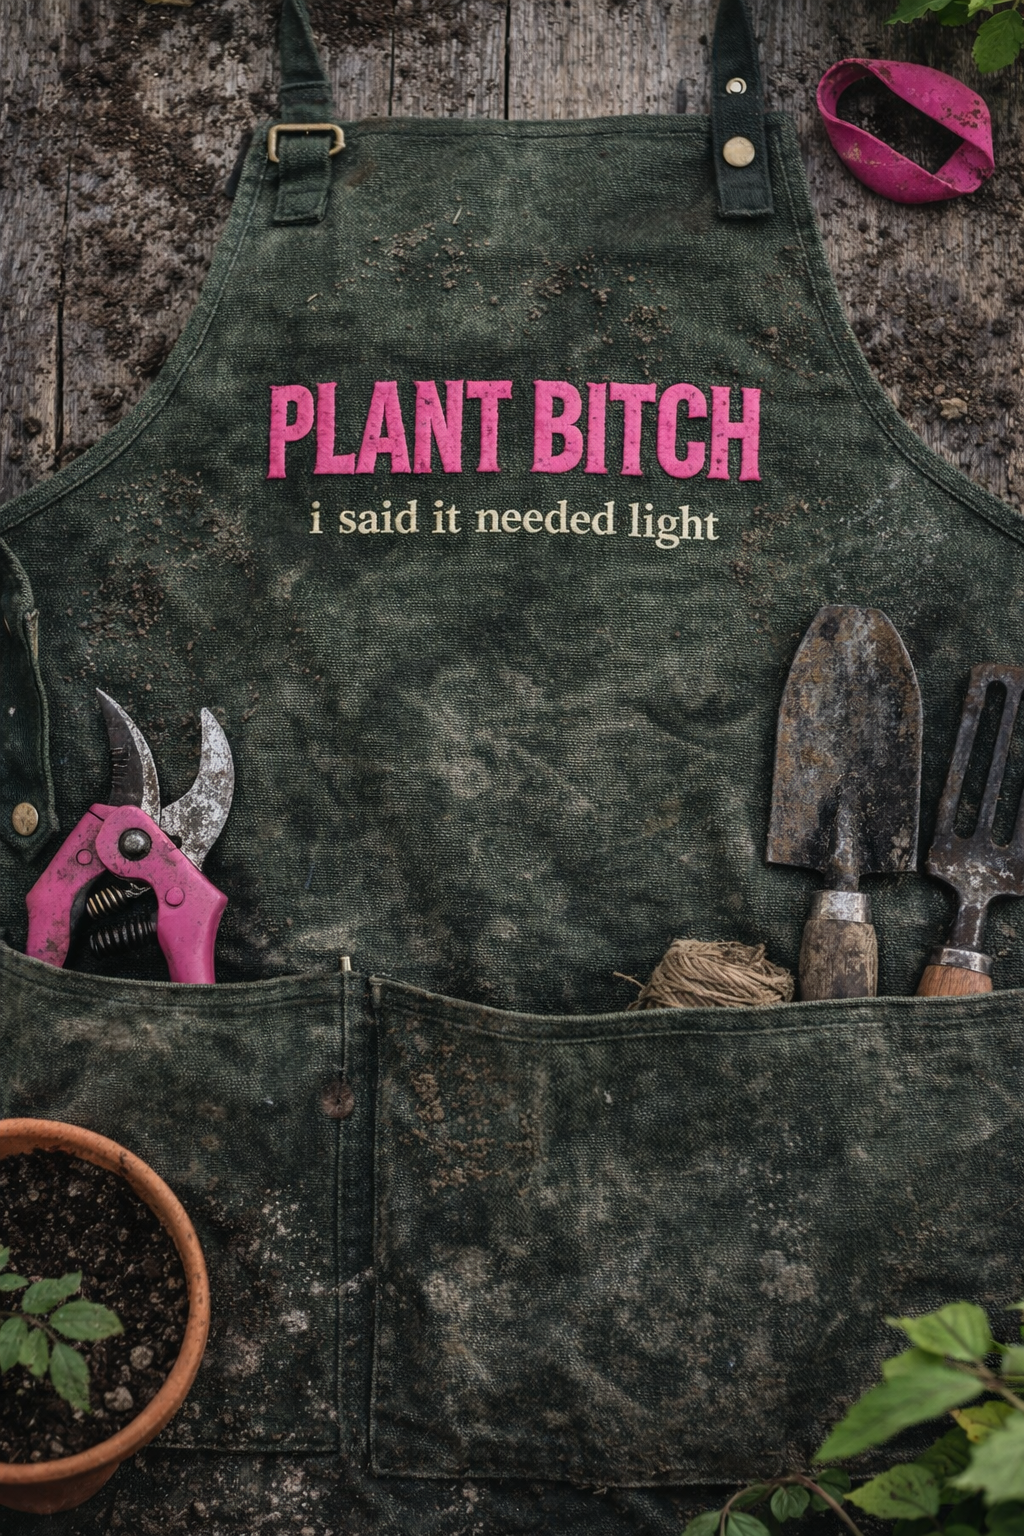
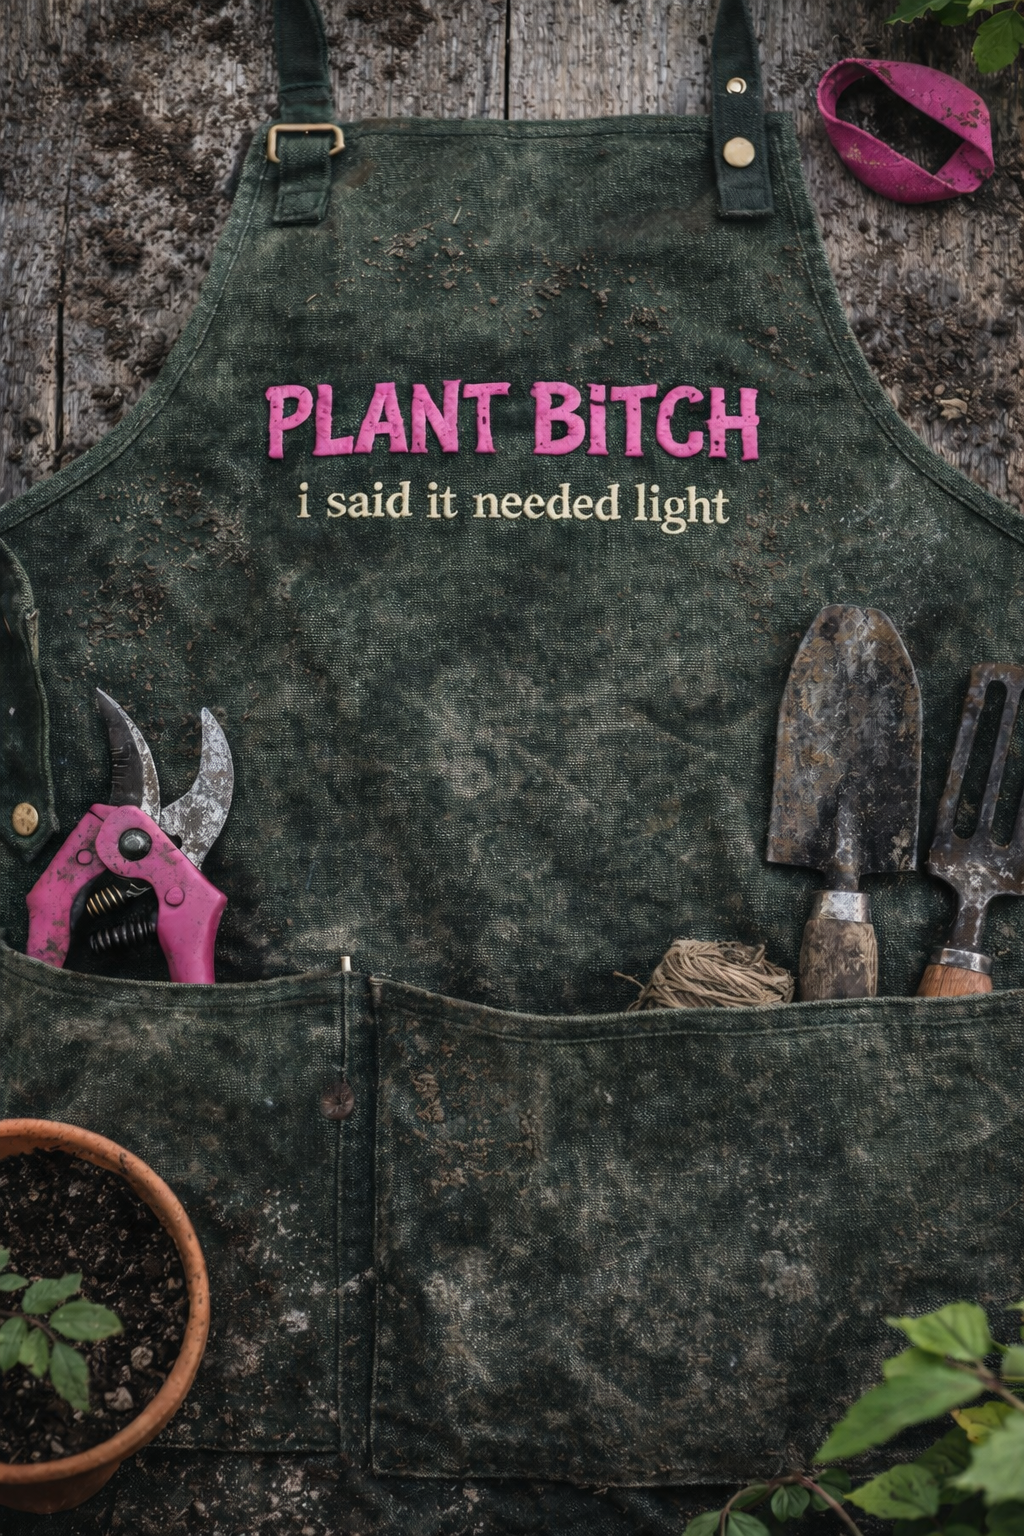
Swap Drop 01 to corrected-font merch photography
Old swag PNGs had wrong-font lockups. Replaced with 9 fresh shots
plus the kept Gym Bro Jr. line. Renamed for clarity (no more
hat-green / hat-cream / mug-white split — single canonical name
per SKU now).

Homepage Drop 01 card swaps:
- the dad hat → hat.png · "stop touching it · washed green"
- the hoodie → hoodie-where-the-sun.png · "where the fuck is the sun"
- the morning mug → mug.png · "water it. leave it. repeat."
- (was the cream cap) → tee-stop-touching-it.png · "the crop tee."

4 staged SKUs not on homepage but added for the shop page:
- tee-where-the-sun-crop, tee-long-moved-it,
  tee-sleeveless-leave, hoodie-fine-this-morning

Apron and Gym Bro Jr. unchanged conceptually.

diff --git a/homepage.html b/homepage.html
@@ -2575,15 +2575,15 @@
 
     <div class="drop__grid">
       <a class="drop__card reveal" href="./shop/">
-        <img src="./photos/swag/hat-green.png" alt="Plant Bitch washed green distressed hat">
+        <img src="./photos/swag/hat.png" alt="Plant Bitch washed green hat with stop touching it back detail">
         <div class="drop__card-head">
-          <span class="drop__card-sku">sku · pb-hat-grn</span>
+          <span class="drop__card-sku">sku · pb-hat-01</span>
           <span class="drop__card-badge">drop 01</span>
         </div>
         <div class="drop__card-body">
           <div>
             <h3 class="drop__card-name">the dad hat.</h3>
-            <span class="drop__card-type">distressed · washed green</span>
+            <span class="drop__card-type">stop touching it · washed green</span>
           </div>
           <span class="drop__card-arrow">
             <svg viewBox="0 0 14 14" fill="none" stroke="currentColor" stroke-width="1.5"><path d="M2 7h10M8 3l4 4-4 4"/></svg>
@@ -2592,7 +2592,7 @@
       </a>
 
       <a class="drop__card reveal" href="./shop/">
-        <img src="./photos/swag/hoodie-green.png" alt="Plant Bitch acid-washed green hoodie">
+        <img src="./photos/swag/hoodie-where-the-sun.png" alt="Plant Bitch hoodie reading where the fuck is the sun">
         <div class="drop__card-head">
           <span class="drop__card-sku">sku · pb-hood-01</span>
           <span class="drop__card-badge">drop 01</span>
@@ -2600,7 +2600,7 @@
         <div class="drop__card-body">
           <div>
             <h3 class="drop__card-name">the hoodie.</h3>
-            <span class="drop__card-type">heavyweight · acid wash green</span>
+            <span class="drop__card-type">where the fuck is the sun · acid wash</span>
           </div>
           <span class="drop__card-arrow">
             <svg viewBox="0 0 14 14" fill="none" stroke="currentColor" stroke-width="1.5"><path d="M2 7h10M8 3l4 4-4 4"/></svg>
@@ -2609,15 +2609,15 @@
       </a>
 
       <a class="drop__card reveal" href="./shop/">
-        <img src="./photos/swag/mug-white.png" alt="Plant Bitch mug with pink handle, staged with plants">
+        <img src="./photos/swag/mug.png" alt="Plant Bitch black mug with pink interior reading water it leave it repeat">
         <div class="drop__card-head">
-          <span class="drop__card-sku">sku · pb-mug-w01</span>
+          <span class="drop__card-sku">sku · pb-mug-01</span>
           <span class="drop__card-badge">drop 01</span>
         </div>
         <div class="drop__card-body">
           <div>
             <h3 class="drop__card-name">the morning mug.</h3>
-            <span class="drop__card-type">ceramic · pink handle · coffee-ready</span>
+            <span class="drop__card-type">water it. leave it. repeat. · pink + black</span>
           </div>
           <span class="drop__card-arrow">
             <svg viewBox="0 0 14 14" fill="none" stroke="currentColor" stroke-width="1.5"><path d="M2 7h10M8 3l4 4-4 4"/></svg>
@@ -2660,15 +2660,15 @@
       </a>
 
       <a class="drop__card reveal" href="./shop/">
-        <img src="./photos/swag/hat-cream-model.png" alt="Plant Bitch cream-colored hat with tank">
+        <img src="./photos/swag/tee-stop-touching-it.png" alt="Plant Bitch black crop tee reading stop touching it">
         <div class="drop__card-head">
-          <span class="drop__card-sku">sku · pb-hat-crm</span>
+          <span class="drop__card-sku">sku · pb-tee-01</span>
           <span class="drop__card-badge">drop 01</span>
         </div>
         <div class="drop__card-body">
           <div>
-            <h3 class="drop__card-name">the cream cap.</h3>
-            <span class="drop__card-type">washed natural · tank sold separately</span>
+            <h3 class="drop__card-name">the crop tee.</h3>
+            <span class="drop__card-type">stop touching it · charcoal wash</span>
           </div>
           <span class="drop__card-arrow">
             <svg viewBox="0 0 14 14" fill="none" stroke="currentColor" stroke-width="1.5"><path d="M2 7h10M8 3l4 4-4 4"/></svg>
